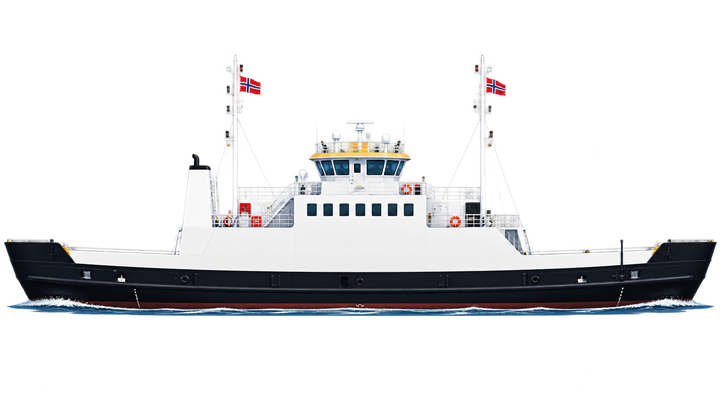
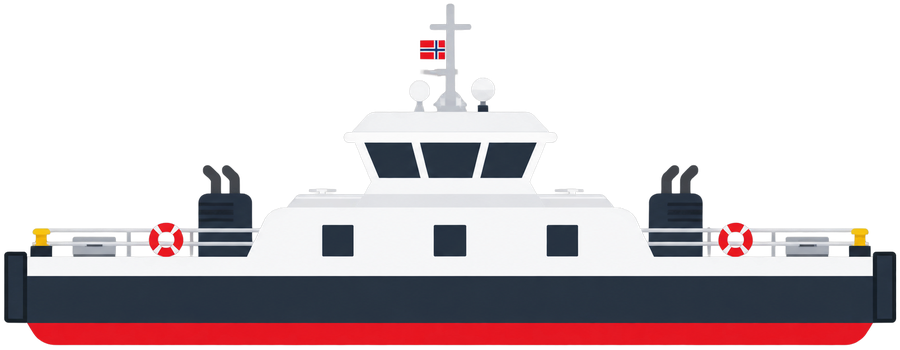
Replace the header graphic with facing quays and a mid-channel ferry.
The outer columns are about 10% of the width each. The ferry sits in
the middle and its position follows crossing percent, alternating
direction on every trip.

diff --git a/assets/app.js b/assets/app.js
@@ -757,35 +757,20 @@ function progressBetween(startSec, endSec, nowSec) {
   return clamp01((nowSec - startSec) / span);
 }
 
-const FJORD_ORDER = [
-  "Store Kalvøy",
-  "Valderøya",
-  "Standal",
-  "Trandal",
-  "Sæbø",
-  "Leknes",
-  "Skår",
-  "Bjørke",
-  "Urke",
-];
-
-function quayRank(name) {
-  const index = FJORD_ORDER.indexOf(name);
-  return index === -1 ? 3 : index;
+/** Partalstur (0, 2, …) går mot høgre, oddetal mot venstre. */
+function tripOutbound(index) {
+  return index % 2 === 0;
 }
 
-function headingOut(from, to) {
-  return quayRank(to) >= quayRank(from);
-}
-
-/** 0 = ytre kai (venstre), 1 = indre kai (høgre). */
-function trackAt(from, to, progress) {
+/** 0 = venstre kai, 1 = høgre kai. */
+function trackAt(progress, outbound) {
   const share = clamp01(progress);
-  return headingOut(from, to) ? share : 1 - share;
+  return outbound ? share : 1 - share;
 }
 
 function placeTrack(track) {
-  return { ...track, at: trackAt(track.from, track.to, track.progress) };
+  const outbound = Boolean(track.outbound);
+  return { ...track, outbound, at: trackAt(track.progress, outbound) };
 }
 
 /** Posisjon på noverande strekning, 0 = frå-kai, 1 = til-kai. */
@@ -797,7 +782,13 @@ function ferryTrack(legs, nowSec = osloSecondsOfDay(), allLegs = null) {
   const catalog = allLegs || legs;
 
   if (nowSec < clockSeconds(first.departure)) {
-    return placeTrack({ from: first.from, to: first.to, progress: 0, phase: "waiting" });
+    return placeTrack({
+      from: first.from,
+      to: first.to,
+      progress: 0,
+      phase: "waiting",
+      outbound: tripOutbound(0),
+    });
   }
 
   for (let i = 0; i < legs.length; i += 1) {
@@ -810,6 +801,7 @@ function ferryTrack(legs, nowSec = osloSecondsOfDay(), allLegs = null) {
         to: leg.to,
         progress: progressBetween(dep, arr, nowSec),
         phase: "sailing",
+        outbound: tripOutbound(i),
       });
     }
     const next = legs[i + 1];
@@ -818,8 +810,9 @@ function ferryTrack(legs, nowSec = osloSecondsOfDay(), allLegs = null) {
         return placeTrack({
           from: leg.to,
           to: next.from,
-          progress: progressBetween(arr, clockSeconds(next.departure), nowSec),
+          progress: 1,
           phase: "reposition",
+          outbound: tripOutbound(i),
         });
       }
       return placeTrack({
@@ -828,11 +821,13 @@ function ferryTrack(legs, nowSec = osloSecondsOfDay(), allLegs = null) {
         progress: 0,
         phase: "moored",
         quay: leg.to,
+        outbound: tripOutbound(i + 1),
       });
     }
   }
 
   if (nowSec >= clockSeconds(last.arrival)) {
+    const lastIndex = legs.length - 1;
     if (isCombinedTimetable() || last.to === home) {
       return placeTrack({
         from: last.from,
@@ -840,6 +835,7 @@ function ferryTrack(legs, nowSec = osloSecondsOfDay(), allLegs = null) {
         progress: 1,
         phase: "done",
         quay: last.to,
+        outbound: tripOutbound(lastIndex),
       });
     }
     const deadhead = minDeadheadMinutes(catalog, last.to, home);
@@ -850,12 +846,26 @@ function ferryTrack(legs, nowSec = osloSecondsOfDay(), allLegs = null) {
         to: home,
         progress: clamp01(sinceMin / deadhead),
         phase: "reposition",
+        outbound: tripOutbound(legs.length),
       });
     }
     if (deadhead == null) {
-      return placeTrack({ from: last.to, to: home, progress: 0.5, phase: "reposition" });
+      return placeTrack({
+        from: last.to,
+        to: home,
+        progress: 0.5,
+        phase: "reposition",
+        outbound: tripOutbound(legs.length),
+      });
     }
-    return placeTrack({ from: last.from, to: home, progress: 1, phase: "done", quay: home });
+    return placeTrack({
+      from: last.from,
+      to: home,
+      progress: 1,
+      phase: "done",
+      quay: home,
+      outbound: tripOutbound(legs.length),
+    });
   }
   return null;
 }
@@ -873,7 +883,7 @@ function renderFerryTrack() {
   root.hidden = false;
   root.classList.toggle("is-underway", track.phase === "sailing" || track.phase === "reposition");
   root.style.setProperty("--at", String(track.at));
-  if (boat) boat.classList.toggle("is-back", !headingOut(track.from, track.to));
+  if (boat) boat.classList.toggle("is-back", !track.outbound);
   root.setAttribute(
     "aria-label",
     t("track.aria", {

diff --git a/assets/styles.css b/assets/styles.css
@@ -42,8 +42,10 @@ body {
 .skip-link:focus { top: 1rem; }
 
 .fjord-track {
+  display: flex;
+  align-items: flex-end;
+  width: 100%;
   margin: 0.7rem 0 0;
-  max-width: 44rem;
   background: none;
 }
 
@@ -51,37 +53,31 @@ body {
   display: none;
 }
 
-.fjord-line {
-  position: relative;
-  display: flex;
-  align-items: flex-end;
-  min-height: 5.8rem;
-}
-
 .fjord-kai {
-  width: clamp(5.2rem, 22vw, 8rem);
-  height: auto;
+  width: 10%;
+  min-width: 3.2rem;
   flex: none;
-  display: block;
   z-index: 2;
 }
 
-.fjord-kai.is-right {
-  transform: scaleX(-1);
+.fjord-kai img {
+  display: block;
+  width: 100%;
+  height: auto;
 }
 
 .fjord-sea {
+  position: relative;
   flex: 1;
-  height: 0;
-  margin: 0 0 0.62rem;
-  border-bottom: 2px solid rgba(215, 238, 234, 0.55);
+  align-self: stretch;
+  min-height: 3.6rem;
 }
 
 .fjord-ferry {
   position: absolute;
   left: calc(var(--at, 0) * 100%);
-  bottom: 0.28rem;
-  width: clamp(5.6rem, 28vw, 8.6rem);
+  bottom: 12%;
+  width: clamp(4.4rem, 22%, 8.4rem);
   height: auto;
   display: block;
   transform: translateX(-50%);

diff --git a/index.html b/index.html
@@ -123,11 +123,14 @@
     </div>
     <p class="lede" id="lede-status" hidden></p>
     <div class="fjord-track" id="fjord-track" role="img">
-      <div class="fjord-line" aria-hidden="true">
-        <img class="fjord-kai is-left" src="assets/kai.png" alt="" width="420" height="312">
-        <span class="fjord-sea"></span>
-        <img class="fjord-ferry" id="fjord-ferry" src="assets/ferje.png" alt="" width="720" height="400">
-        <img class="fjord-kai is-right" src="assets/kai.png" alt="" width="420" height="312">
+      <div class="fjord-kai is-left" aria-hidden="true">
+        <img src="assets/kai-venstre.png" alt="" width="640" height="370">
+      </div>
+      <div class="fjord-sea" aria-hidden="true">
+        <img class="fjord-ferry" id="fjord-ferry" src="assets/ferje.png" alt="" width="900" height="350">
+      </div>
+      <div class="fjord-kai is-right" aria-hidden="true">
+        <img src="assets/kai-hogre.png" alt="" width="640" height="422">
       </div>
     </div>
   </header>

diff --git a/sw.js b/sw.js
@@ -1,5 +1,5 @@
 const IS_DEV = self.location.pathname.includes("/dev/");
-const CACHE = IS_DEV ? "fergeruter-dev-v14" : "fergeruter-v14";
+const CACHE = IS_DEV ? "fergeruter-dev-v15" : "fergeruter-v15";
 const PRECACHE = [
   "./",
   "./index.html",
@@ -8,7 +8,8 @@ const PRECACHE = [
   "./assets/i18n.js",
   "./assets/styles.css",
   "./assets/ferje.png",
-  "./assets/kai.png",
+  "./assets/kai-venstre.png",
+  "./assets/kai-hogre.png",
   "./assets/favicon.svg",
   "./assets/icons/icon-192.png",
   "./assets/icons/icon-512.png",
